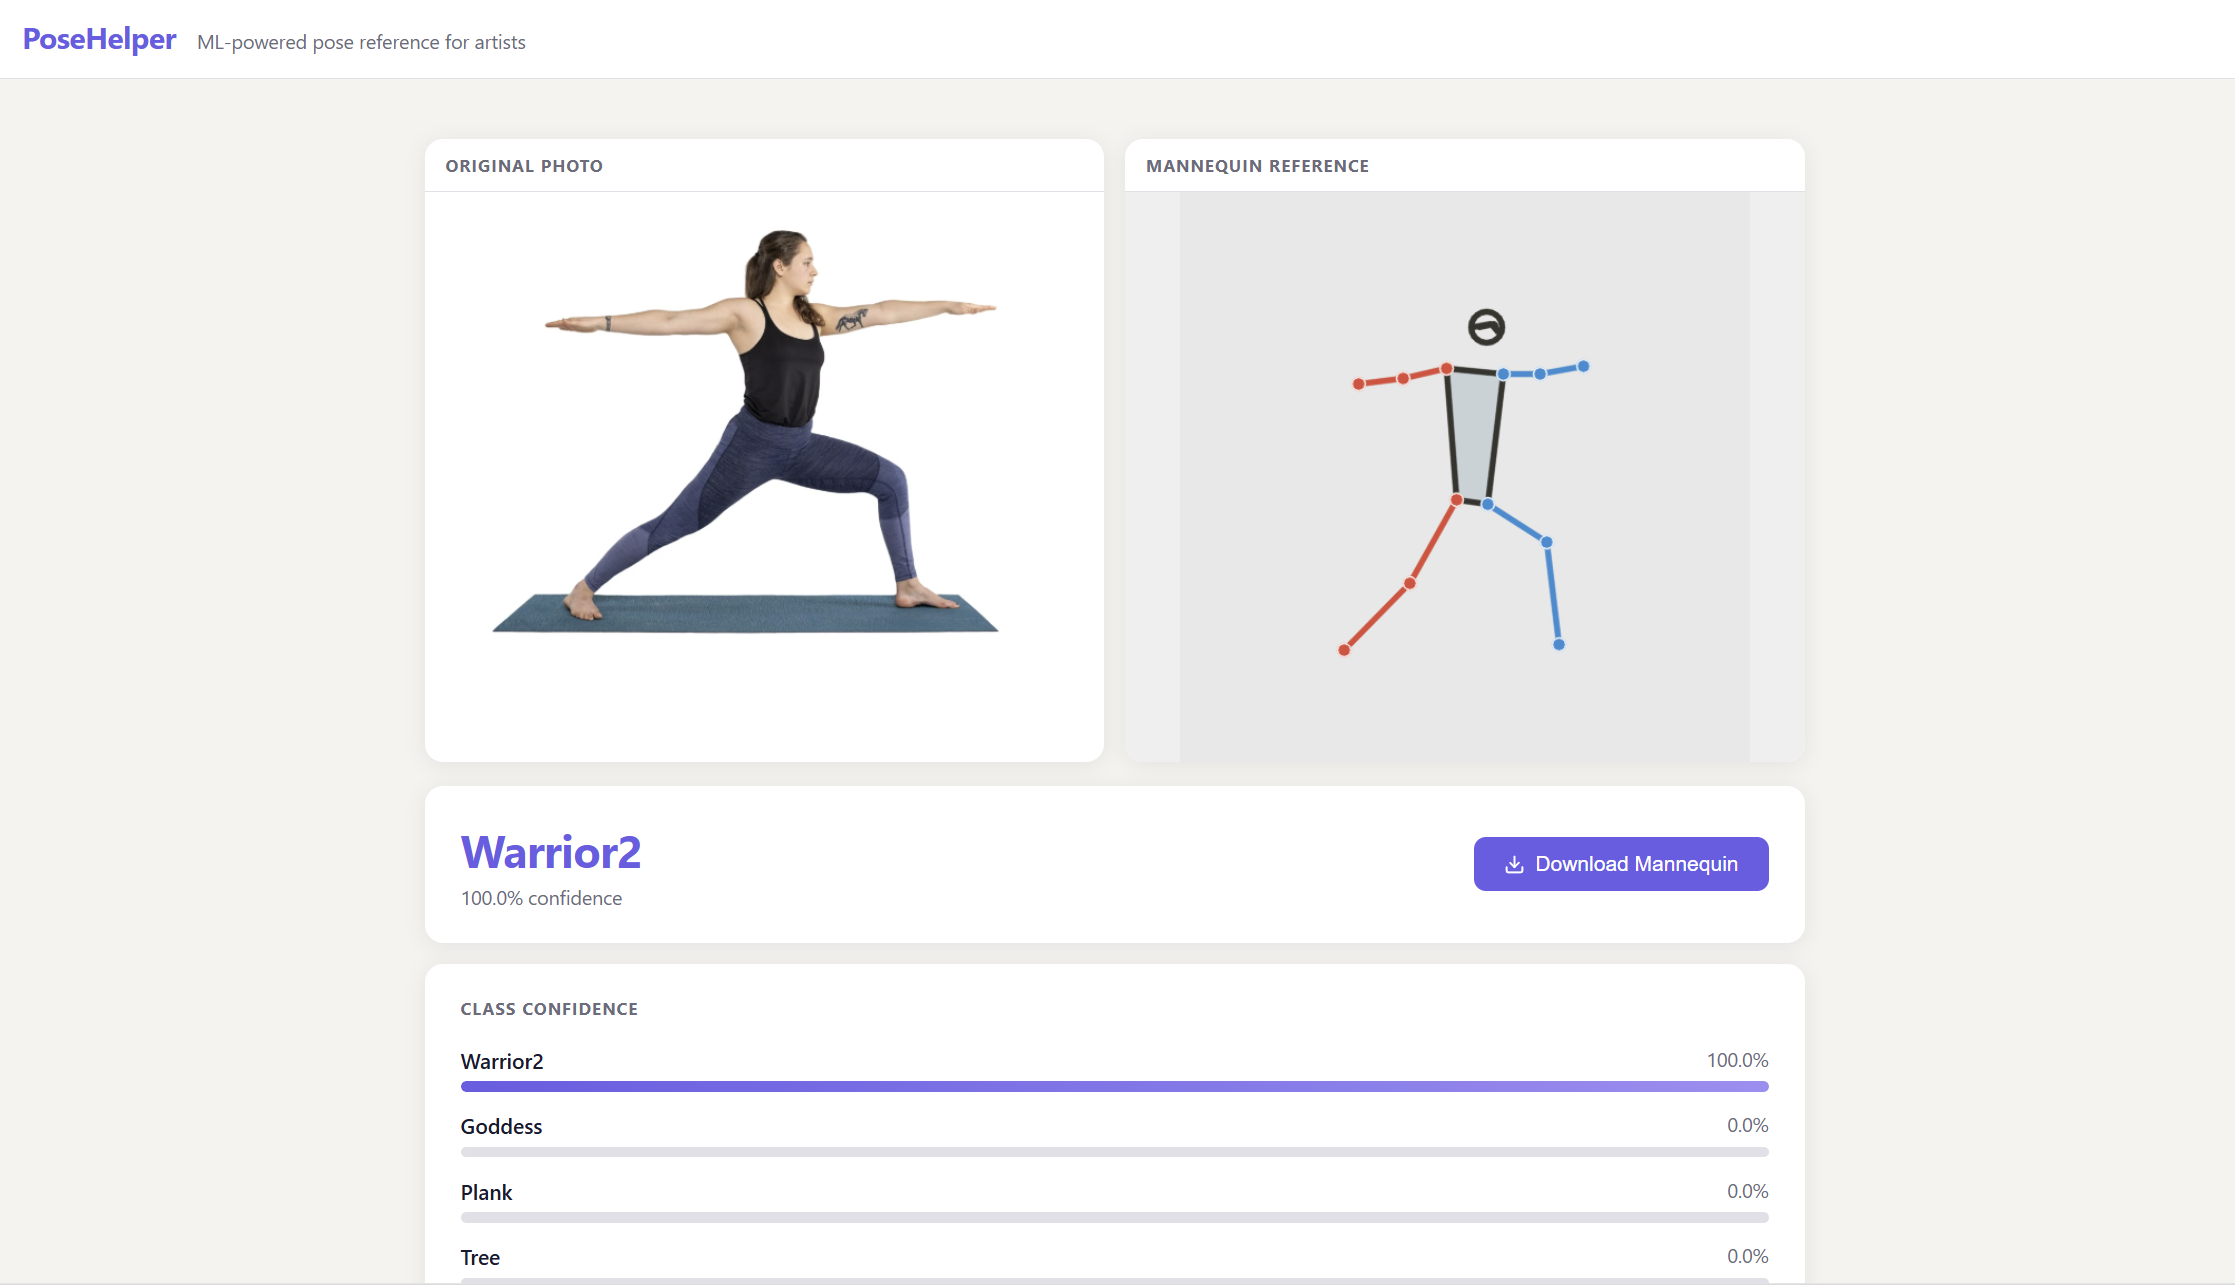
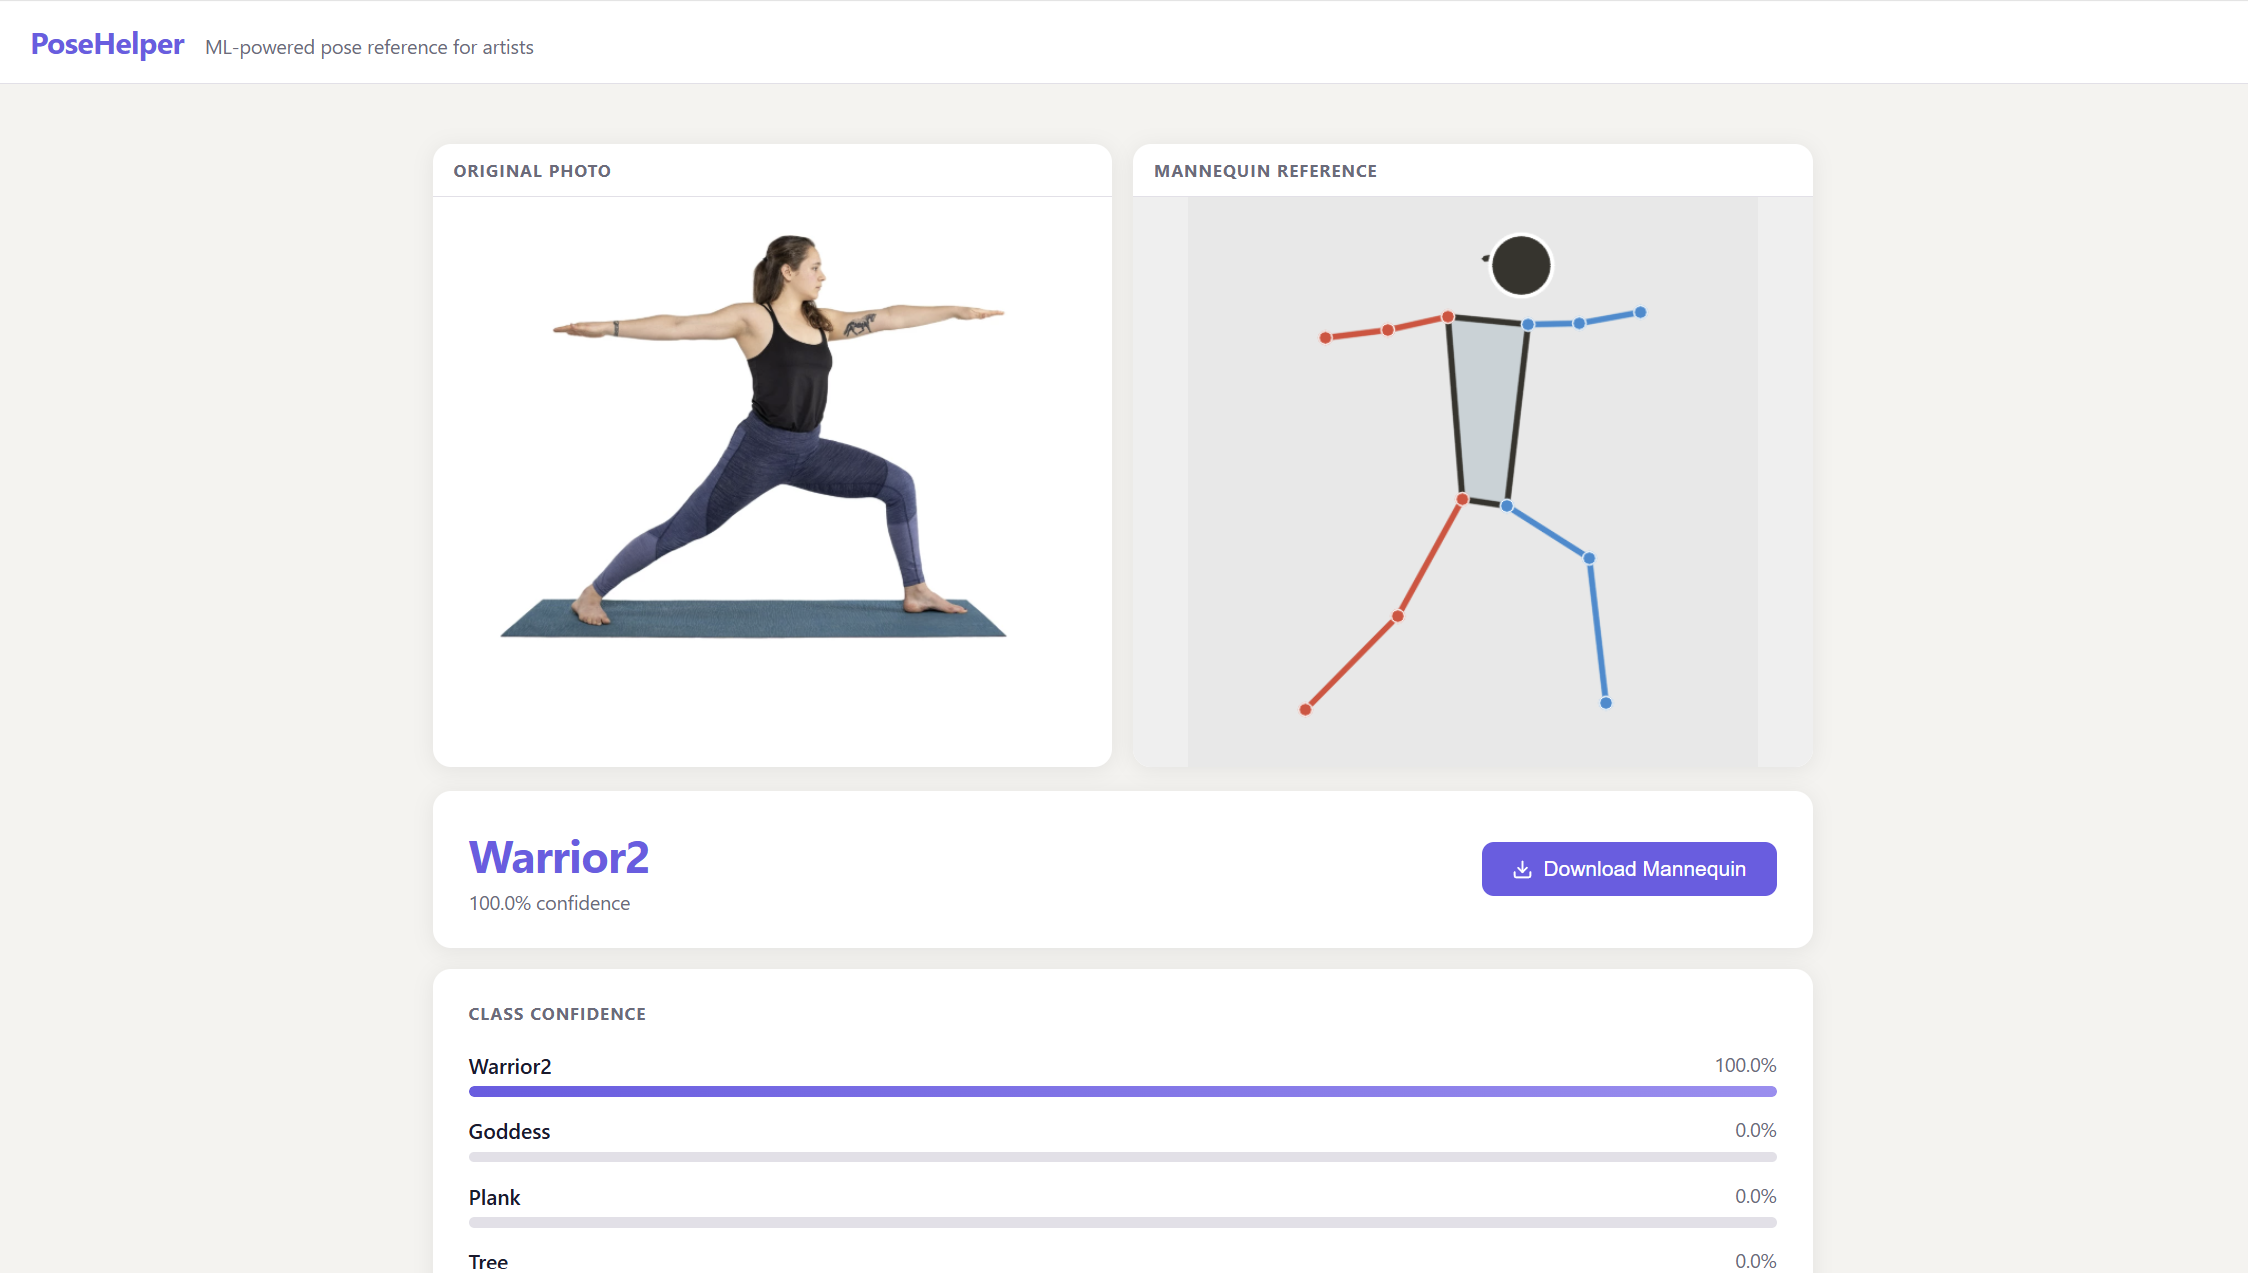
Add more example demo; fix renderer

diff --git a/app/renderer.py b/app/renderer.py
@@ -1,10 +1,9 @@
-import io
 import cv2
 import numpy as np
 
-CANVAS = 512
-PAD = 56          # pixels of whitespace around the figure
-CONF_THRESH = 0.2
+CANVAS      = 512
+CONF_THRESH = 0.20   # threshold for drawing
+CONF_BBOX   = 0.15   # lower threshold used only for bounding-box computation
 
 # MoveNet keypoint indices
 NOSE, L_EYE, R_EYE, L_EAR, R_EAR = 0, 1, 2, 3, 4
@@ -12,19 +11,19 @@ L_SH, R_SH, L_EL, R_EL, L_WR, R_WR = 5, 6, 7, 8, 9, 10
 L_HIP, R_HIP, L_KN, R_KN, L_AN, R_AN = 11, 12, 13, 14, 15, 16
 
 # BGR colors
-_DARK = (45, 52, 54)          # near-black — head, torso spine
-_BLUE = (210, 140, 55)        # left side  (BGR → appears blue)
-_RED  = (55,  75, 220)        # right side (BGR → appears red)
-_FILL = (215, 210, 200)       # torso polygon fill
+_DARK  = (45,  52,  54)
+_BLUE  = (210, 140,  55)   # left side
+_RED   = (55,   75, 220)   # right side
+_FILL  = (215, 210, 200)   # torso polygon
+_WHITE = (255, 255, 255)
 
-# (joint_a, joint_b, color)
 CONNECTIONS = [
     # face
-    (NOSE,  L_EYE, _DARK), (NOSE,  R_EYE, _DARK),
+    (NOSE, L_EYE, _DARK), (NOSE, R_EYE, _DARK),
     (L_EYE, L_EAR, _DARK), (R_EYE, R_EAR, _DARK),
     # torso
-    (L_SH,  R_SH,  _DARK), (L_SH,  L_HIP, _DARK),
-    (R_SH,  R_HIP, _DARK), (L_HIP, R_HIP, _DARK),
+    (L_SH, R_SH, _DARK), (L_SH, L_HIP, _DARK),
+    (R_SH, R_HIP, _DARK), (L_HIP, R_HIP, _DARK),
     # left limbs
     (L_SH, L_EL, _BLUE), (L_EL, L_WR, _BLUE),
     (L_HIP, L_KN, _BLUE), (L_KN, L_AN, _BLUE),
@@ -33,14 +32,38 @@ CONNECTIONS = [
     (R_HIP, R_KN, _RED), (R_KN, R_AN, _RED),
 ]
 
-_LEFT_JOINTS  = {L_SH, L_EL, L_WR, L_HIP, L_KN, L_AN}
-_RIGHT_JOINTS = {R_SH, R_EL, R_WR, R_HIP, R_KN, R_AN}
+_LEFT_JOINTS = {L_SH, L_EL, L_WR, L_HIP, L_KN, L_AN}
 
 
-def _px(y_norm: float, x_norm: float) -> tuple[int, int]:
-    """Map a normalized [0,1] keypoint to canvas pixel (x, y)."""
-    span = CANVAS - 2 * PAD
-    return (int(x_norm * span + PAD), int(y_norm * span + PAD))
+def _make_px(kps: np.ndarray):
+    """
+    Return a (y_norm, x_norm) → (canvas_x, canvas_y) mapper that scales and
+    centers the skeleton so it fills ~80% of the canvas.
+
+    Uses a slightly lower confidence threshold (CONF_BBOX) so extremities are
+    included in the bounding box even if they fall below the drawing threshold.
+    """
+    vis = [i for i in range(17) if kps[i, 2] >= CONF_BBOX]
+
+    if len(vis) >= 2:
+        ys = kps[vis, 0]
+        xs = kps[vis, 1]
+        cy = (float(ys.min()) + float(ys.max())) / 2
+        cx = (float(xs.min()) + float(xs.max())) / 2
+        span = max(float(ys.max()) - float(ys.min()),
+                   float(xs.max()) - float(xs.min()),
+                   1e-6)
+        scale = (CANVAS * 0.80) / span
+    else:
+        cy, cx, scale = 0.5, 0.5, CANVAS * 0.80
+
+    half = CANVAS / 2
+
+    def px(y_norm: float, x_norm: float) -> tuple[int, int]:
+        return (int((x_norm - cx) * scale + half),
+                int((y_norm - cy) * scale + half))
+
+    return px
 
 
 def render_mannequin(keypoints: list) -> bytes:
@@ -55,48 +78,46 @@ def render_mannequin(keypoints: list) -> bytes:
     -------
     bytes  PNG image data.
     """
-    kps = np.array(keypoints, dtype=np.float32)  # (17, 3)
+    kps     = np.array(keypoints, dtype=np.float32)  # (17, 3)
     visible = kps[:, 2] >= CONF_THRESH
+    px      = _make_px(kps)
 
     canvas = np.full((CANVAS, CANVAS, 3), 232, dtype=np.uint8)
 
-    # --- torso fill --------------------------------------------------------
+    # --- torso fill -------------------------------------------------------
     torso_idx = [L_SH, R_SH, R_HIP, L_HIP]
     if all(visible[i] for i in torso_idx):
-        pts = np.array([_px(kps[i, 0], kps[i, 1]) for i in torso_idx], np.int32)
+        pts = np.array([px(kps[i, 0], kps[i, 1]) for i in torso_idx], np.int32)
         cv2.fillPoly(canvas, [pts], _FILL)
 
-    # --- skeleton lines ----------------------------------------------------
+    # --- skeleton lines ---------------------------------------------------
     for (a, b, color) in CONNECTIONS:
         if visible[a] and visible[b]:
-            cv2.line(canvas, _px(kps[a, 0], kps[a, 1]),
-                     _px(kps[b, 0], kps[b, 1]), color, 4, cv2.LINE_AA)
+            cv2.line(canvas, px(kps[a, 0], kps[a, 1]),
+                     px(kps[b, 0], kps[b, 1]), color, 4, cv2.LINE_AA)
 
-    # --- head circle -------------------------------------------------------
-    head_candidates = [i for i in (NOSE, L_EYE, R_EYE, L_EAR, R_EAR) if visible[i]]
-    if head_candidates:
-        ys = [kps[i, 0] for i in head_candidates]
-        xs = [kps[i, 1] for i in head_candidates]
-        cy, cx = float(np.mean(ys)), float(np.mean(xs))
-
+    # --- head: filled dark circle on nose, radius ≈ 0.4 × shoulder width --
+    if visible[NOSE]:
+        nose_pt = px(kps[NOSE, 0], kps[NOSE, 1])
         if visible[L_SH] and visible[R_SH]:
-            ls, rs = _px(kps[L_SH, 0], kps[L_SH, 1]), _px(kps[R_SH, 0], kps[R_SH, 1])
-            radius = max(14, int(abs(rs[0] - ls[0]) * 0.25))
+            ls = px(kps[L_SH, 0], kps[L_SH, 1])
+            rs = px(kps[R_SH, 0], kps[R_SH, 1])
+            radius = max(12, int(abs(rs[0] - ls[0]) * 0.4))
         else:
-            radius = 22
+            radius = 26
+        cv2.circle(canvas, nose_pt, radius, _DARK,  -1, cv2.LINE_AA)  # filled
+        cv2.circle(canvas, nose_pt, radius, _WHITE,   2, cv2.LINE_AA)  # outline
 
-        cv2.circle(canvas, _px(cy, cx), radius, _DARK, 3, cv2.LINE_AA)
-
-    # --- joints ------------------------------------------------------------
-    for idx in range(5, 17):          # skip face keypoints
+    # --- joints -----------------------------------------------------------
+    for idx in range(5, 17):
         if not visible[idx]:
             continue
-        pt = _px(kps[idx, 0], kps[idx, 1])
+        pt    = px(kps[idx, 0], kps[idx, 1])
         color = _BLUE if idx in _LEFT_JOINTS else _RED
-        cv2.circle(canvas, pt, 6, color,            -1, cv2.LINE_AA)
-        cv2.circle(canvas, pt, 6, (255, 255, 255),   1, cv2.LINE_AA)
+        cv2.circle(canvas, pt, 6, color,  -1, cv2.LINE_AA)
+        cv2.circle(canvas, pt, 6, _WHITE,  1, cv2.LINE_AA)
 
-    # --- encode PNG --------------------------------------------------------
+    # --- encode -----------------------------------------------------------
     ok, buf = cv2.imencode(".png", canvas)
     if not ok:
         raise RuntimeError("OpenCV failed to encode PNG")

diff --git a/README.md b/README.md
@@ -1,8 +1,18 @@
 # PoseHelper
 
-ML-powered human pose reference tool for artists. Upload a photo, get a predicted yoga pose label and a clean skeleton mannequin you can use as a drawing reference.
+ML-powered human pose reference tool for artists. Upload a photo, get a predicted yoga pose label and a clean skeleton mannequin you can use as a drawing reference. 
+
+
+PoseHelper uses MoveNet SinglePose Thunder, which is optimized for single-person images. For best results, upload photos with one clearly visible person and a full body in frame. Multi-person support would require MoveNet MultiPose, which is a planned future improvement.
 
 ![PoseHelper demo](<Posehelper screenshot1.png>)
+![PoseHelper demo](<Posehelper screenshot2.png>)
+![PoseHelper demo](<Posehelper screenshot3.png>)
+
+## Requirements
+
+- Python 3.9+
+- See `requirements.txt` for all dependencies
 
 ## Setup
 
@@ -61,6 +71,16 @@ features = keypoints[:, [1, 0]].flatten()
 # include confidence — 51 features
 features = keypoints.flatten()
 ```
+
+## Main Code Locations
+
+| What | Where |
+|---|---|
+| Training notebook | `notebooks/posehelper_training.ipynb` |
+| MoveNet inference + classifier | `app/model.py` |
+| Mannequin renderer | `app/renderer.py` |
+| FastAPI endpoint | `app/main.py` |
+| Frontend UI | `frontend/index.html` |
 
 ## Project layout
 